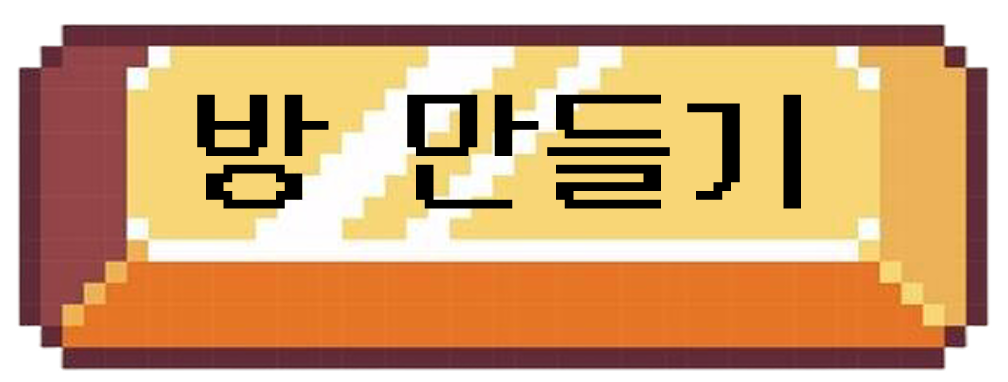
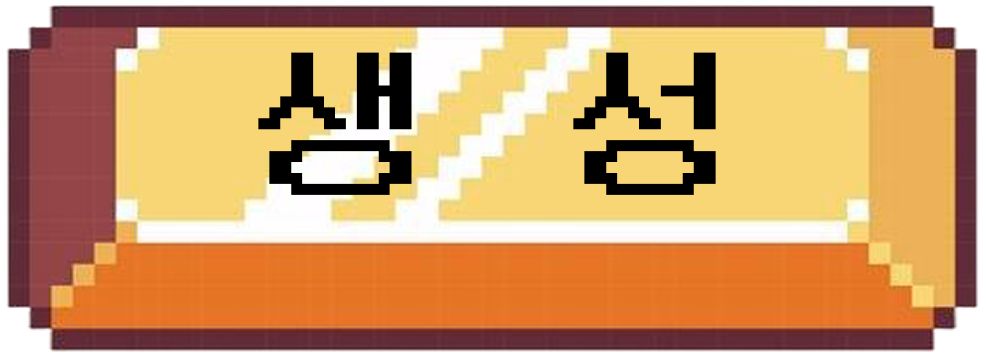
S12P31E103-231 [FE] design : 멀티모드 버튼 UI 수정 완료

diff --git a/Front/codenova/src/components/multi/modal/MakeRoomModal.jsx b/Front/codenova/src/components/multi/modal/MakeRoomModal.jsx
@@ -1,11 +1,11 @@
 import React, {useState} from "react";
 import modalBg from "../../../assets/images/board1.jpg";
 import makeRoomBtn from "../../../assets/images/make_room_btn.png";
-import cancleBtn from "../../../assets/images/cancle_btn_2.png";
+import cancleBtn from "../../../assets/images/multi_cancel_btn.png";
 import { createRoom } from "../../../sockets/MultiSocket";
 import { useNavigate } from "react-router-dom";
 import useAuthStore from "../../../store/authStore";
-
+import MultiAlertModal from "../modal/MultiAlertModal";
 
 const MakeRoomModal = ({ onClose }) => {
     const [title, setTitle] = useState("");
@@ -17,6 +17,8 @@ const MakeRoomModal = ({ onClose }) => {
     const languages = ["PYTHON", "JAVA", "JS","SQL"]
     const navigate = useNavigate();
     const nickname = useAuthStore((state) => state.user?.nickname);
+
+    const [alertMessage, setAlertMessage] = useState(null);
 
     const handleLangChange = (dir) => {
         const index = languages.indexOf(language);
@@ -31,7 +33,7 @@ const MakeRoomModal = ({ onClose }) => {
 
       const handleCreateRoom = () => {
         if (!title || !people || !language || !nickname) {
-          alert("모든 항목을 입력해주세요");
+          setAlertMessage("모든 항목을 입력해주세요!");
           return;
         }
       
@@ -76,7 +78,7 @@ const MakeRoomModal = ({ onClose }) => {
         {/* 모달 내부 콘텐츠 */}
         {/* 내부 콘텐츠 */}
         <div className="relative z-10 w-full h-full px-12 py-4 flex flex-col text-white">
-        <div className="text-3xl text-center mb-4 text-black">방 만들기</div>
+        <div className="text-3xl text-center mb-4 text-black font-bold">방 만들기</div>
         <div className="flex flex-1 justify-center mt-[5%]">
         <div className="flex flex-col gap-9 w-full max-w-[600px] text-2xl">
     
@@ -198,6 +200,14 @@ const MakeRoomModal = ({ onClose }) => {
           </div>
         </div>
       </div>
+
+      {alertMessage && (
+      <MultiAlertModal
+        message={alertMessage}
+        onConfirm={() => setAlertMessage(null)}
+      />
+    )}
+
     </div>
   );
 };
